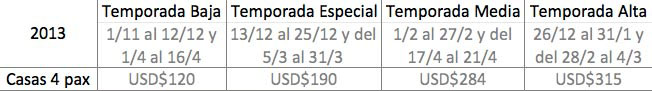
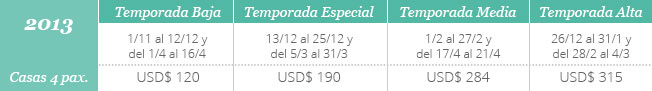
# Fixes gianco llena las bolas 1 - la pedrera sin 2 scrolls - view actividades sin scroll - add actividades new style - tarifas images with new style

diff --git a/public/css/newweb_css/style.css b/public/css/newweb_css/style.css
@@ -17,8 +17,23 @@ body * {
 	line-height: 22px;
 }
 body.actividades .modal {
-	height: 90%;
+	height: 95%;
 	overflow-y: auto;
+}
+body.actividades .auto-size {
+	height: auto !important;	
+}
+body.actividades .modal-scroll {
+	max-height: none !important;	
+}
+body.actividades .btn {
+	position: inherit;	
+}
+body.actividades .form-horizontal .control-label {
+	width: 88px !important;	
+}
+body.actividades .form-horizontal .controls {
+	margin-left: 104px !important;	
 }
 h1{
 	font-size:30px;
@@ -522,7 +537,7 @@ footer img {
 	padding: 11px 20px 0 20px;
 }
 body.actividades .modal-body .btn {
-	margin-left:88px!important;
+	margin-left:104px!important;
 }
 .modal-body .btn:hover {
 	background-image:none;
@@ -601,8 +616,7 @@ body.actividades .modal-body .btn {
 	opacity: .9;
 	filter: alpha(opacity=90);
 }
-.modal-body input[type=text] {
-	box-shadow:none;
+.modal-body input[type=text] {	
 	border:1px solid #cccccc;
 }
 .modal-body label {
@@ -629,4 +643,9 @@ body.actividades .modal-body .btn {
 .scrollup:hover {
 	opacity:0.5;
 }
-
+/* mensaje error */
+.input_error,.input_error[placeholder]{
+	box-shadow: 0 0 5px red !important;
+	color: red;
+	border: red;
+}	
